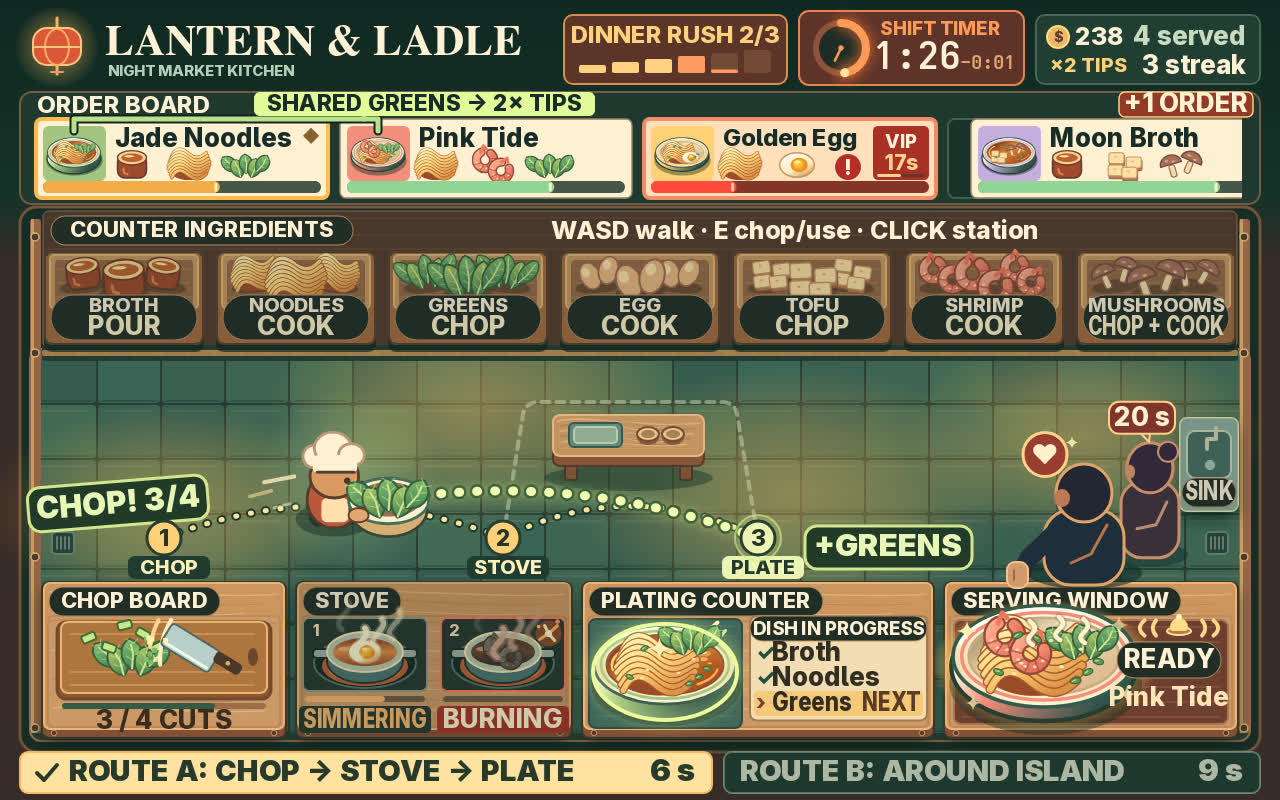
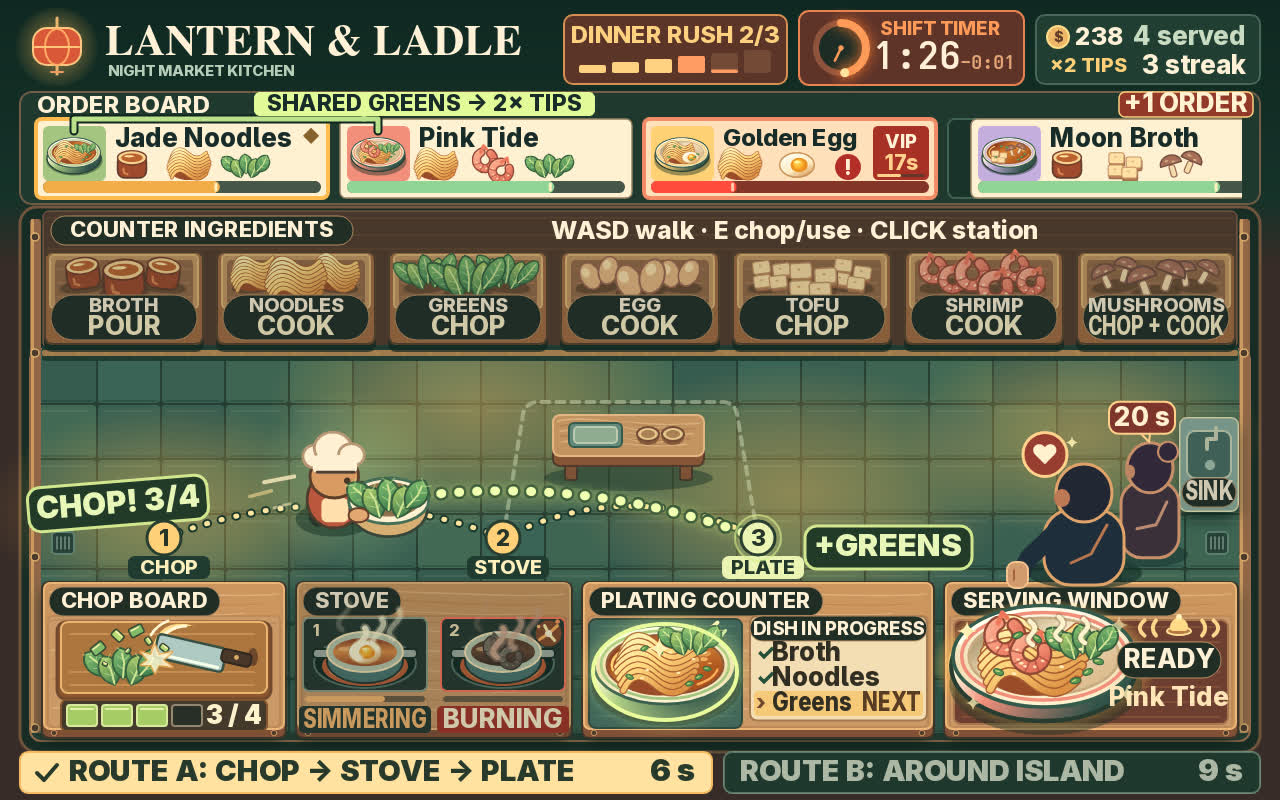
v36: instant chop feedback with segmented cut meter

Changed region(s): [[0.0312, 0.75, 0.2188, 0.9375]]

diff --git a/game/src/worktops.js b/game/src/worktops.js
@@ -35,48 +35,98 @@ function drawChopBoard(ctx, state, largerLabels) {
   panel(ctx, 61, 622, 206, 71, 7, '#ae763f', '#edb471');
   for (const y of [634, 672, 685]) stroke(ctx, '#d4995c', 1.5, [[70, y], [254, y]]);
   oval(ctx, 253, 657, 5, 9, '#6d462d');
-  const sinceCut = state.elapsed - state.board.mark;
+  const { food, cuts, mark } = state.board;
+  const sinceCut = state.elapsed - mark;
   const cover = state.shot === 'cover';
-  const swing = cover ? (state.coverMotion - .19 + 3) % .6 : sinceCut;
-  const chopping = swing < .17;
-  if (state.board.food) drawIngredient(ctx, state.board.food.id, 132, 656, 1.14, state.board.cuts >= 3 ? 'chopped' : 'raw');
-  if (cover && swing < .34) {
-    const lift = 1 - (swing - .17) ** 2 * 19;
-    for (const [x, y, angle] of [[87, 637, -.4], [108, 647, .35], [124, 624, -.25], [143, 633, .5], [157, 647, -.5]]) {
+  const age = cover ? (sinceCut + state.coverMotion - state.coverCutMotion + 3) % .6 : sinceCut;
+  if (food) drawIngredient(ctx, food.id, 123, 665, 1.14, cuts >= 3 ? 'chopped' : 'raw');
+  drawCut(age, food);
+
+  if (cover) drawChopPop(ctx, (state.coverMotion - .19 + 3) % .6, cuts, cover);
+  else if (sinceCut < .58) drawChopPop(ctx, sinceCut, cuts, cover);
+
+  if (food && cuts < 4) {
+    panel(ctx, 61, 700, 206, 31, 6, '#43392c', '#80532f');
+    for (let i = 0; i < 4; i++) {
+      const x = 67 + i * 35;
+      const filled = i < cuts;
+      panel(ctx, x, 705, 30, 21, 3, filled ? '#a7cc67' : '#282f27', filled ? '#daea9d' : '#948672');
+      if (filled) stroke(ctx, '#e6f2aa', 2, [[x + 4, 709], [x + 26, 709]]);
+    }
+    label(ctx, `${cuts} / 4`, 234, 716, 26, '#fff1cd', { align: 'center', weight: 900 });
+  } else {
+    meter(ctx, 62, 703, 204, 6, cuts / 4, '#335a45', '#9e6c48');
+    label(ctx, cuts === 4 ? 'PICK UP' : 'HOLD TO CHOP', 164, 721, largerLabels ? 26 : 16, '#3b2b20', { align: 'center', maxWidth: 204 });
+  }
+
+  function drawCut(age, food) {
+    ctx.save();
+    ctx.translate(226, 654);
+    if (food && age < .18) {
+      ctx.globalAlpha = Math.min(1, (.18 - age) / .075);
+      ctx.beginPath();
+      ctx.moveTo(-75, -1);
+      ctx.quadraticCurveTo(-68, -38, -31, -28);
+      ctx.quadraticCurveTo(-56, -30, -75, -1);
+      ctx.closePath();
+      ctx.fillStyle = '#ffda8a';
+      ctx.fill();
+      ctx.beginPath();
+      ctx.moveTo(-74, -3);
+      ctx.quadraticCurveTo(-61, -28, -40, -28);
+      ctx.moveTo(-75, -19);
+      ctx.quadraticCurveTo(-69, -29, -58, -33);
+      ctx.lineCap = 'round';
+      ctx.strokeStyle = '#fff8d5';
+      ctx.lineWidth = 2.8;
+      ctx.stroke();
+      ctx.globalAlpha = 1;
+    }
+    const rebound = food ? Math.min(1, age / .19) : 1;
+    ctx.rotate(.03 + .39 * rebound);
+    panel(ctx, -70, -5, 70, 24, 4, '#afc9c3', '#384e43', 2.5);
+    stroke(ctx, '#f6ffe9', 3, [[-65, 15], [-5, 15]]);
+    panel(ctx, -4, -5, 30, 13, 4, '#49372a', '#30271f');
+    oval(ctx, 11, 1, 2.4, 2.4, '#dbab68');
+    ctx.restore();
+
+    if (!food || age >= .31) return;
+    ctx.save();
+    ctx.globalAlpha = Math.min(1, (.31 - age) / .12);
+    // The pieces fan out at impact, then fall back toward the board.
+    const travel = .16 * (1 - Math.exp(-age * 10));
+    for (const [dx, dy, size, spin] of [
+      [-580, -260, 14, -7], [-380, -390, 12, 8], [-190, -440, 14, -5],
+      [-68, -335, 8, 10], [95, -265, 9, 7], [-510, -100, 5, 4], [-275, -235, 6, -9],
+    ]) {
+      const x = 155 + dx * travel;
+      const y = 660 + dy * travel + 1450 * travel ** 2;
       ctx.save();
-      ctx.translate(146 + (x - 146) * lift, 661 + (y - 661) * lift);
-      ctx.rotate(angle);
-      panel(ctx, -7, -4, 14, 8, 2, '#c8e88b', '#426a3b');
+      ctx.translate(x, y);
+      ctx.rotate(spin * age);
+      const color = food.id === 'greens' && spin > 0 ? '#bbdc76' : ingredients[food.id].hue;
+      panel(ctx, -size / 2, -size / 3, size, size * .67, 2, color, '#334633', 1.5);
+      stroke(ctx, '#fff2b3', 1.4, [[-size / 3, -size / 6], [size / 4, -size / 6]]);
       ctx.restore();
     }
-  }
-  ctx.save();
-  if (cover && chopping) {
-    for (const [radius, start, end, color] of [[77, 3.08, 3.69, '#fff0c4'], [88, 3.29, 3.61, '#ffd58e']]) {
+    if (age < .14) {
+      ctx.globalAlpha = Math.min(1, (.14 - age) / .055);
+      const rays = [
+        [4, -5], [17, -8], [8, 0], [17, 7], [4, 5], [0, 13],
+        [-4, 5], [-14, 5], [-7, 0], [-14, -8], [-4, -5],
+      ];
       ctx.beginPath();
-      ctx.arc(237, 660, radius, start, end);
-      ctx.strokeStyle = color;
-      ctx.lineWidth = 4;
-      ctx.lineCap = 'round';
+      ctx.moveTo(155, 645);
+      for (const [x, y] of rays) ctx.lineTo(155 + x, 660 + y);
+      ctx.closePath();
+      ctx.strokeStyle = '#eaa64d';
+      ctx.lineWidth = 3;
       ctx.stroke();
+      ctx.fillStyle = '#fff8d5';
+      ctx.fill();
     }
+    ctx.restore();
   }
-  ctx.translate(220, 655);
-  ctx.rotate(cover && chopping ? .81 - swing * 2 : chopping ? -.24 : -.63);
-  panel(ctx, -57, -3, 56, 25, 4, '#b8ceca', '#53665e');
-  stroke(ctx, '#effcea', 3, [[-52, 18], [-5, 18]]);
-  panel(ctx, -4, -3, 30, 12, 4, '#49372a');
-  oval(ctx, 11, 3, 2.4, 2.4, '#dbab68');
-  ctx.restore();
-  if (!cover && chopping) {
-    stroke(ctx, '#fff2c6', 3, [[148, 644], [137, 633]]);
-    stroke(ctx, '#fff2c6', 3, [[156, 639], [154, 626]]);
-    stroke(ctx, '#ffe299', 2.4, [[165, 639], [172, 630]]);
-  }
-  if (cover || sinceCut < .58) drawChopPop(ctx, swing, state.board.cuts, cover);
-  meter(ctx, 62, 703, 204, 6, state.board.cuts / 4, '#335a45', '#9e6c48');
-  const status = state.board.cuts === 4 ? 'PICK UP' : state.board.food ? `${state.board.cuts} / 4 CUTS` : 'HOLD TO CHOP';
-  label(ctx, status, 164, 721, largerLabels ? 26 : 16, '#3b2b20', { align: 'center', maxWidth: 204 });
 }
 
 function drawChopPop(ctx, age, cuts, cover) {

diff --git a/game/src/shots.js b/game/src/shots.js
@@ -2,7 +2,7 @@
 import { recipes, spawnOrder, ticketCapacity } from './orders.js';
 import { serviceWave, shiftLength } from './shift.js';
 import { chooseFastestRoute, estimateRouteSeconds } from './route.js';
-import { burners, chopIngredient, coverIsland, ingredients, moveParticles, simmerSeconds, useStation, worktops } from './stations.js';
+import { burners, chopIngredient, coverIsland, ingredients, simmerSeconds, useStation, worktops } from './stations.js';
 import { drawRoom, routePoint, routeSegment } from './room.js';
 import { drawBurner, drawServePop } from './worktops.js';
 import { drawLastCall, drawUrgentClock } from './hud.js';
@@ -100,10 +100,11 @@ function stageCover(state) {
   state.pots[1].age = 11.5;
   state.coverMotion = .32;
   moveCoverCook(state);
-  state.elapsed -= .13;
+  const cutAge = .095;
+  state.coverCutMotion = state.coverMotion;
+  state.elapsed -= cutAge;
   chopIngredient(state);
-  moveParticles(state, .13);
-  state.elapsed += .13;
+  state.elapsed += cutAge;
 }
 
 export function moveCoverCook(state) {

diff --git a/game/src/stations.js b/game/src/stations.js
@@ -127,8 +127,6 @@ export function chopIngredient(state) {
   if (!board.food || board.cuts >= cutsNeeded) return;
   board.cuts++;
   board.mark = state.elapsed;
-  burst(state, 144, 653, ingredients[board.food.id].hue);
-  burst(state, 151, 647, '#fff2ab', 5);
   state.sound('chop');
   if (board.cuts === cutsNeeded) {
     board.food.stage = ingredients[board.food.id].route === 'both'
